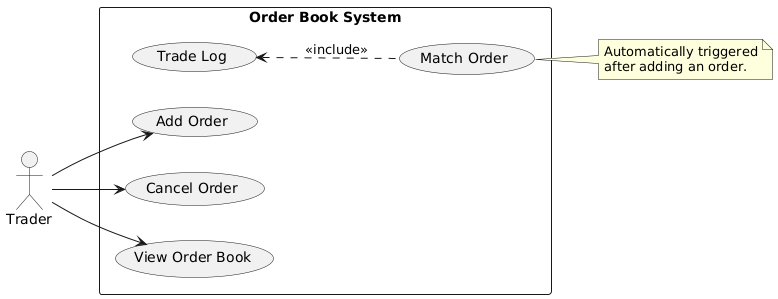
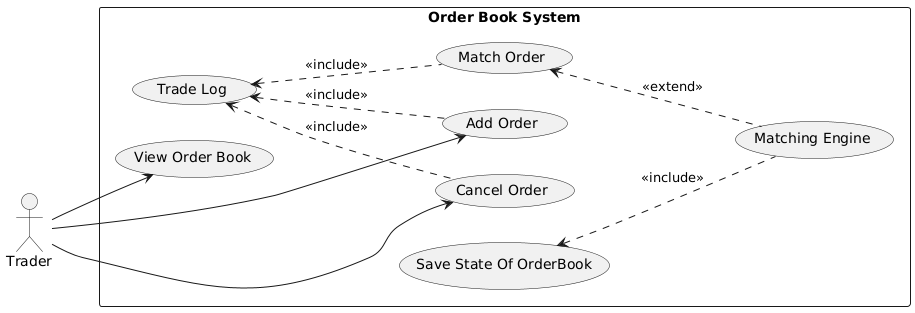
creating documentation

diff --git a/docs/desgin.md b/docs/desgin.md
@@ -1,0 +1,218 @@
+# Design
+
+---
+
+## 1. Core Components
+
+---
+
+### 1.1 `Order`
+
+Represents a single buy or sell limit order submitted by a trader.
+
+**Fields:**
+- `id`: unique identifier for the order
+- `type`: whether the order is a `"BUY"` or `"SELL"` order
+- `price`: the price at which the trader is willing to buy/sell
+- `quantity`: the number of units in the order
+- `timestamp`: time the order was submitted, used for tie-breaking
+
+**Design Notes:**
+- `Order` is a lightweight data structure with no internal logic.
+- Orders are compared by price, then by timestamp to enforce price-time priority.
+
+---
+
+### 1.2 `OrderBook`
+
+Manages all active buy and sell orders in the system.
+
+**Responsibilities:**
+- Add new orders to the appropriate side of the book
+- Cancel existing orders by ID
+- Automatically invoke the matching engine after order addition
+- Provide access to current best bid/ask
+- Display the order book state for user interaction or testing
+
+**Internal Structure:**
+- `buyBook`: a `std::map<price, deque<Order>, std::greater<>>` storing buy orders in descending price order
+- `sellBook`: a `std::map<price, deque<Order>>` storing sell orders in ascending price order
+
+Orders at each price level are stored in a `deque` to preserve insertion order (for timestamp priority).
+
+---
+
+### 2.3 `MatchingEngine`
+
+Encapsulates the logic for matching incoming orders with existing ones in the order book using price-time priority.
+
+**Responsibilities:**
+- Match a new buy order against the lowest available sell orders (ask ≤ bid)
+- Match a new sell order against the highest available buy orders (bid ≥ ask)
+- Execute full or partial trades as needed
+- Reduce or remove matched orders from the book
+- Return executed trades for optional logging
+
+**Design Notes:**
+- Matching is automatically triggered by `OrderBook::addOrder()`
+- Matching logic is isolated for clarity and future extensibility
+- Partial fills are supported: an order may result in multiple smaller trades
+
+--- 
+
+### 2.4 `TradeLog`
+
+`TradeLog` serves as a persistent, append-only record of all operations performed on the order book — including order additions, cancellations, and matches.
+
+**Responsibilities:**
+- Record every significant event that alters the state of the order book
+    - `add` → when a new order is submitted
+    - `cancel` → when an order is removed
+    - `match` → when a trade is executed
+- Append each event to a log file in real time
+- Provide access to the in-memory log for inspection or analysis
+- Optionally expose a pointer or mechanism to mark replay progress
+
+**Format:**
+- Entries are saved in a structured, machine-readable format (e.g., JSON Lines or CSV)
+- Example (JSONL):
+  ```json
+  {"type": "add", "order_id": 101, "side": "BUY", "price": 100, "quantity": 5, "timestamp": ...}
+  {"type": "match", "buy_id": 101, "sell_id": 102, "price": 100, "quantity": 3, "timestamp": ...}
+
+
+---
+
+### ✅ 2.5 `OrderBookSerializer` 
+
+`OrderBookSerializer` (also known as the Snapshot Manager) is responsible for capturing the complete state of the system at specific points in time.
+
+**Responsibilities:**
+- Serialize the entire state of the `OrderBook` to a persistent file (e.g., JSON)
+- Optionally serialize a pointer or snapshot of the `TradeLog` state
+- Save system state on explicit command (e.g., via CLI)
+- Support optional automatic snapshotting after every 10 operations
+- Restore the system from a previous snapshot + log if needed
+
+**Design Notes:**
+- The serializer operates independently of `OrderBook` and `TradeLog` logic
+- Snapshot format is distinct from the append-only log — it reflects the in-memory state at a point in time
+- Enables recovery via snapshot + replay model: load snapshot, then replay any remaining `TradeLog` entries
+
+**Persistence Strategy:**
+- Append-only event log (`TradeLog`) for fine-grained replayability
+- Periodic or user-triggered snapshot (`OrderBookSerializer`) for fast startup and recovery
+
+## 3. Flow of Operations
+
+### 3.1 Submitting a New Order
+
+1. A user issues a command to place a new buy or sell order.
+2. The order is validated and converted into an internal format.
+3. It is added to the appropriate side of the order book based on its type (buy/sell).
+4. The system immediately checks for available opposing orders that can fulfill it.
+
+---
+
+### 3.2 Matching Orders
+
+5. Matching is performed automatically when a new order is added.
+6. The system compares the new order against existing orders on the opposite side of the book.
+7. If price and quantity conditions are met:
+    - Trades are executed
+    - The order may be partially or fully filled
+    - The resting order(s) may be removed or updated
+
+---
+
+### 3.3 Recording Events
+
+8. Each state-changing operation — order placement, cancellation, or match — is logged.
+9. A structured log entry is appended to a persistent event log for traceability and recovery.
+
+---
+
+### 3.4 Saving a Snapshot
+
+10. The system may save a full snapshot of its state either:
+    - Manually (via user command)
+    - Automatically, after a fixed number of operations
+11. The snapshot contains the current state of the order book and a reference point in the event log.
+
+---
+
+### 3.5 Querying the Book
+
+12. Users may request to view the order book at any time.
+13. The system responds with the current buy and sell levels, optionally sorted and summarized.
+
+---
+
+### 3.6 Canceling Orders
+
+14. A user may cancel a previously placed order using its unique identifier.
+15. If the order is still active, it is removed from the book and the cancellation is logged.
+
+---
+
+### 3.7 Exiting and Recovery
+
+16. On system shutdown, a final snapshot may be written to disk.
+17. Upon restarting:
+
+
+## 6. Design Principles Applied
+
+This project is built with long-term maintainability, extensibility, and correctness in mind. The following key software design principles are actively applied:
+
+### 6.1 SOLID Principles
+
+- **Single Responsibility Principle (SRP):**  
+  Each class has a focused, well-defined purpose:
+    - `OrderBook` manages live orders and coordinates matching
+    - `MatchingEngine` performs price-time matching logic
+    - `TradeLog` handles event logging
+    - `OrderBookSerializer` manages persistence and recovery
+
+- **Open/Closed Principle (OCP):**  
+  Matching strategies can be extended or swapped (e.g., pro-rata matching) without modifying `OrderBook` logic.
+
+- **Liskov Substitution Principle (LSP):**  
+  Future abstractions (e.g., interfaces for loggers or matching engines) will allow polymorphism without breaking functionality.
+
+- **Interface Segregation Principle (ISP):**  
+  Interfaces are kept minimal and focused (e.g., `OrderBookSerializer` does not expose `TradeLog` internals).
+
+- **Dependency Inversion Principle (DIP):**  
+  High-level modules (e.g., CLI, controller) depend on abstractions like `OrderBook`, not on file or I/O specifics.
+
+---
+
+### 6.2 C++-Specific Principles
+
+- **RAII (Resource Acquisition Is Initialization):**  
+  Memory and file management are wrapped in RAII-safe classes (`std::vector`, `std::ofstream`, `smart pointers`), ensuring deterministic cleanup.
+
+- **Rule of 5 / Rule of 0:**  
+  Custom constructors and destructors are only written when needed. Most types follow the Rule of 0 by relying on STL and smart pointers.
+
+- **Const-Correctness:**  
+  Read-only methods are marked `const` to enforce immutability and avoid accidental state changes.
+
+- **Separation of Interface and Implementation:**  
+  Public interfaces are declared in header files (`.hpp`), while logic resides in implementation files (`.cpp`), improving build hygiene.
+
+---
+
+### 6.3 Architectural Design Patterns
+
+- **Composition over Inheritance:**  
+  Components like `OrderBook`, `TradeLog`, and `MatchingEngine` are composed, not subclassed, for better encapsulation.
+
+- **Strategy Pattern (planned):**  
+  Matching logic is isolated to enable runtime or compile-time switching of order matching strategies.
+
+- **Snapshot + Event Log Model:**  
+  Combines fast snapshot-based recovery with fine-grained TradeLog replayability, inspired by event sourcing architectures in distributed systems.
+
+

diff --git a/docs/requirements.md b/docs/requirements.md
@@ -11,7 +11,7 @@ The system must support the following core operations:
 - Match orders based on price-time priority
 - Display the current state of the order book
 - Log trades that were matched
-- Serialize order book state to file
+- save order book state to file
 
 ---
 
